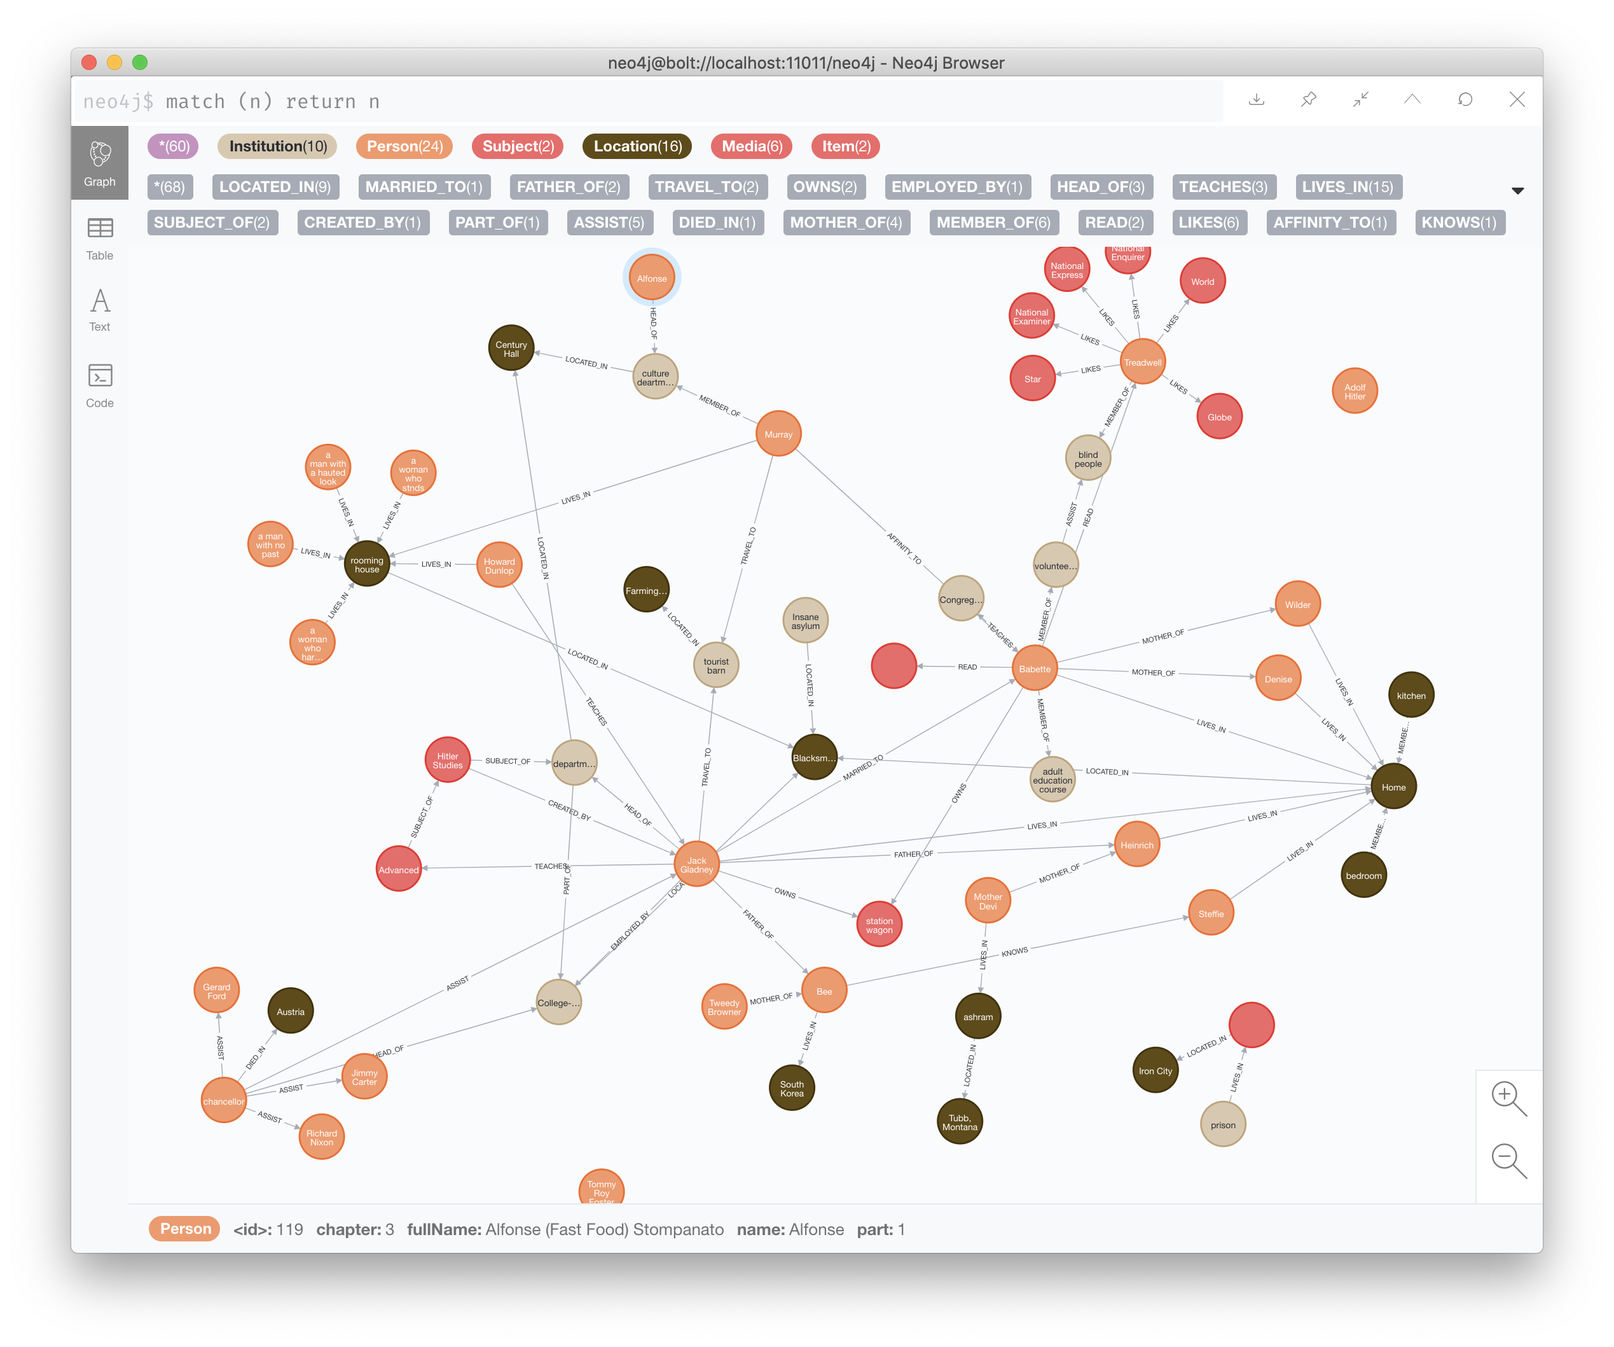
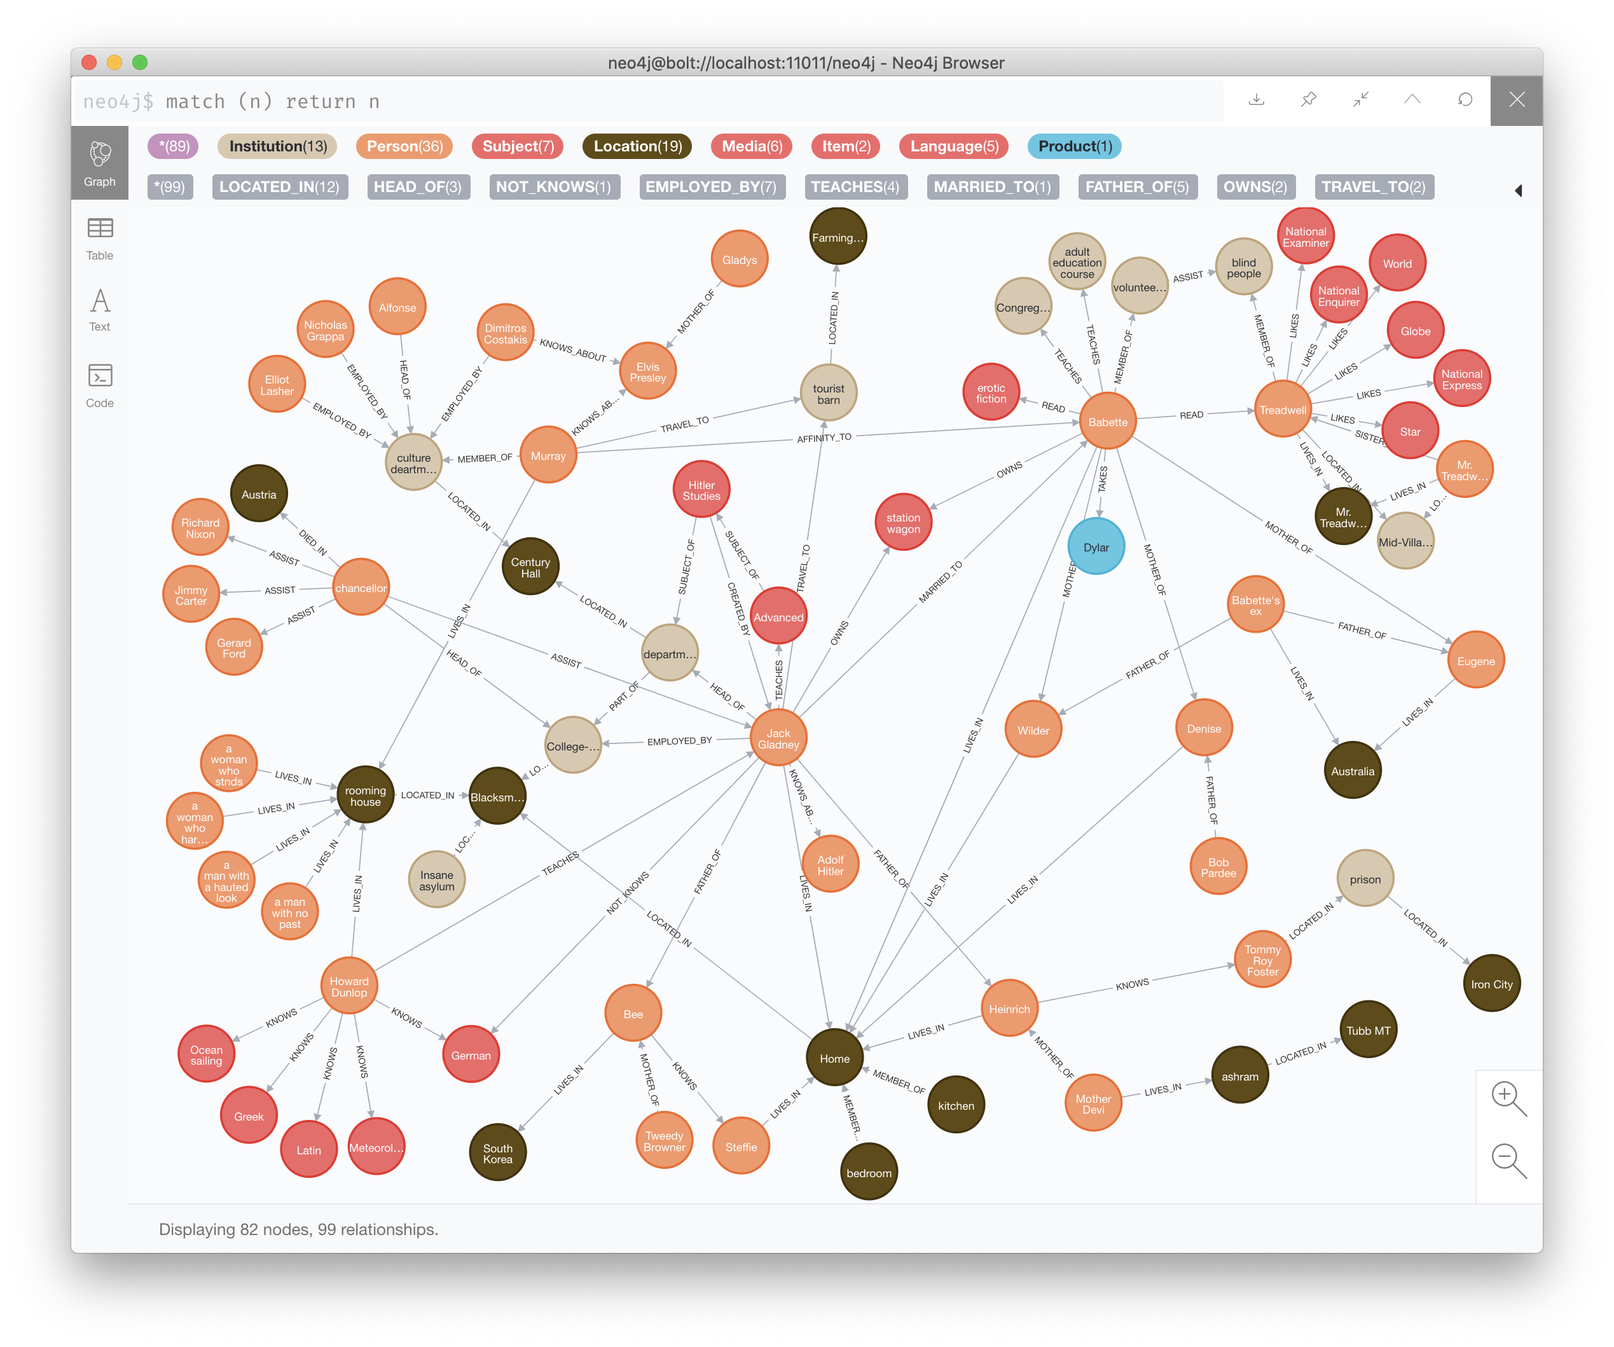
pyvi done. badly. needs proper review

diff --git a/utils/pv.html b/utils/pv.html
@@ -1,0 +1,216 @@
+<html>
+<head>
+<link rel="stylesheet" href="https://cdnjs.cloudflare.com/ajax/libs/vis/4.16.1/vis.css" type="text/css" />
+<script type="text/javascript" src="https://cdnjs.cloudflare.com/ajax/libs/vis/4.16.1/vis-network.min.js"> </script>
+<center>
+<h1>None</h1>
+</center>
+
+<!-- <link rel="stylesheet" href="../node_modules/vis/dist/vis.min.css" type="text/css" />
+<script type="text/javascript" src="../node_modules/vis/dist/vis.js"> </script>-->
+
+<style type="text/css">
+
+        #mynetwork {
+            width: 100%;
+            height: 95%;
+            background-color: #ffffff;
+            border: 1px solid lightgray;
+            position: relative;
+            float: left;
+        }
+
+        
+        #loadingBar {
+            position:absolute;
+            top:0px;
+            left:0px;
+            width: 100%;
+            height: 95%;
+            background-color:rgba(200,200,200,0.8);
+            -webkit-transition: all 0.5s ease;
+            -moz-transition: all 0.5s ease;
+            -ms-transition: all 0.5s ease;
+            -o-transition: all 0.5s ease;
+            transition: all 0.5s ease;
+            opacity:1;
+        }
+
+        #bar {
+            position:absolute;
+            top:0px;
+            left:0px;
+            width:20px;
+            height:20px;
+            margin:auto auto auto auto;
+            border-radius:11px;
+            border:2px solid rgba(30,30,30,0.05);
+            background: rgb(0, 173, 246); /* Old browsers */
+            box-shadow: 2px 0px 4px rgba(0,0,0,0.4);
+        }
+
+        #border {
+            position:absolute;
+            top:10px;
+            left:10px;
+            width:500px;
+            height:23px;
+            margin:auto auto auto auto;
+            box-shadow: 0px 0px 4px rgba(0,0,0,0.2);
+            border-radius:10px;
+        }
+
+        #text {
+            position:absolute;
+            top:8px;
+            left:530px;
+            width:30px;
+            height:50px;
+            margin:auto auto auto auto;
+            font-size:22px;
+            color: #000000;
+        }
+
+        div.outerBorder {
+            position:relative;
+            top:400px;
+            width:600px;
+            height:44px;
+            margin:auto auto auto auto;
+            border:8px solid rgba(0,0,0,0.1);
+            background: rgb(252,252,252); /* Old browsers */
+            background: -moz-linear-gradient(top,  rgba(252,252,252,1) 0%, rgba(237,237,237,1) 100%); /* FF3.6+ */
+            background: -webkit-gradient(linear, left top, left bottom, color-stop(0%,rgba(252,252,252,1)), color-stop(100%,rgba(237,237,237,1))); /* Chrome,Safari4+ */
+            background: -webkit-linear-gradient(top,  rgba(252,252,252,1) 0%,rgba(237,237,237,1) 100%); /* Chrome10+,Safari5.1+ */
+            background: -o-linear-gradient(top,  rgba(252,252,252,1) 0%,rgba(237,237,237,1) 100%); /* Opera 11.10+ */
+            background: -ms-linear-gradient(top,  rgba(252,252,252,1) 0%,rgba(237,237,237,1) 100%); /* IE10+ */
+            background: linear-gradient(to bottom,  rgba(252,252,252,1) 0%,rgba(237,237,237,1) 100%); /* W3C */
+            filter: progid:DXImageTransform.Microsoft.gradient( startColorstr='#fcfcfc', endColorstr='#ededed',GradientType=0 ); /* IE6-9 */
+            border-radius:72px;
+            box-shadow: 0px 0px 10px rgba(0,0,0,0.2);
+        }
+        
+
+        
+        #config {
+            float: left;
+            width: 400px;
+            height: 600px;
+        }
+        
+
+        
+</style>
+
+</head>
+
+<body>
+<div id = "mynetwork"></div>
+
+<div id="loadingBar">
+    <div class="outerBorder">
+        <div id="text">0%</div>
+        <div id="border">
+            <div id="bar"></div>
+        </div>
+    </div>
+</div>
+
+
+<div id = "config"></div>
+
+<script type="text/javascript">
+
+    // initialize global variables.
+    var edges;
+    var nodes;
+    var network; 
+    var container;
+    var options, data;
+
+    
+    // This method is responsible for drawing the graph, returns the drawn network
+    function drawGraph() {
+        var container = document.getElementById('mynetwork');
+        
+        
+
+        // parsing and collecting nodes and edges from the python
+        nodes = new vis.DataSet([{"id": "hill", "label": "College-on-the-Hill", "shape": "dot"}, {"id": "protagonist,", "label": "protagonist,", "shape": "dot"}, {"id": "hitlerDept,", "label": "hitlerDept,", "shape": "dot"}, {"id": "hitlerStudies", "label": "Hitler Studies", "shape": "dot"}, {"id": "protagonist", "label": "Jack Gladney", "shape": "dot"}, {"id": "hitler,", "label": "hitler,", "shape": "dot"}, {"id": "chancellor,", "label": "chancellor,", "shape": "dot"}, {"id": "chancellor", "label": "chancellor of College-on-Hill", "shape": "dot"}, {"id": "nixon,", "label": "nixon,", "shape": "dot"}, {"id": "ford,", "label": "ford,", "shape": "dot"}, {"id": "carter,", "label": "carter,", "shape": "dot"}, {"id": "austria,", "label": "austria,", "shape": "dot"}, {"id": "babette,", "label": "babette,", "shape": "dot"}, {"id": "volunteers", "label": "volunteering group", "shape": "dot"}, {"id": "blind,", "label": "blind,", "shape": "dot"}, {"id": "babette", "label": "Babette", "shape": "dot"}, {"id": "volunteers,", "label": "volunteers,", "shape": "dot"}, {"id": "adEd,", "label": "adEd,", "shape": "dot"}, {"id": "treadwell,", "label": "treadwell,", "shape": "dot"}, {"id": "treadwell", "label": "Treadwell", "shape": "dot"}, {"id": "natEnquirer,", "label": "natEnquirer,", "shape": "dot"}, {"id": "natExaminer,", "label": "natExaminer,", "shape": "dot"}, {"id": "natExpress,", "label": "natExpress,", "shape": "dot"}, {"id": "globe,", "label": "globe,", "shape": "dot"}, {"id": "world,", "label": "world,", "shape": "dot"}, {"id": "star,", "label": "star,", "shape": "dot"}, {"id": "stationwagon,", "label": "stationwagon,", "shape": "dot"}, {"id": "wilder,", "label": "wilder,", "shape": "dot"}, {"id": "wilder", "label": "Wilder", "shape": "dot"}, {"id": "home,", "label": "home,", "shape": "dot"}, {"id": "home", "label": "Home", "shape": "dot"}, {"id": "bedroom,", "label": "bedroom,", "shape": "dot"}, {"id": "kitchen,", "label": "kitchen,", "shape": "dot"}, {"id": "denise", "label": "Denise", "shape": "dot"}, {"id": "steffie", "label": "Steffie", "shape": "dot"}, {"id": "heinrich", "label": "Heinrich", "shape": "dot"}, {"id": "cultDept", "label": "culture deartment", "shape": "dot"}, {"id": "centuryHall,", "label": "centuryHall,", "shape": "dot"}, {"id": "hitlerDept", "label": "department of Hitler Studies", "shape": "dot"}, {"id": "alfonse", "label": "Alfonse", "shape": "dot"}, {"id": "cultDept,", "label": "cultDept,", "shape": "dot"}, {"id": "murray", "label": "Murray", "shape": "dot"}, {"id": "roomingHouse,", "label": "roomingHouse,", "shape": "dot"}, {"id": "womanWithSecret", "label": "a woman who harbors a terrible secret", "shape": "dot"}, {"id": "hautedMan", "label": "a man with a hauted look", "shape": "dot"}, {"id": "dunlop", "label": "Howard Dunlop", "shape": "dot"}, {"id": "letterboxWoman", "label": "a woman who stnds by the letterbox for hours", "shape": "dot"}, {"id": "noPastMan", "label": "a man with no past", "shape": "dot"}, {"id": "blacksmith,", "label": "blacksmith,", "shape": "dot"}, {"id": "roomingHouse", "label": "rooming house", "shape": "dot"}, {"id": "asylum", "label": "Insane asylum", "shape": "dot"}, {"id": "barn", "label": "tourist barn", "shape": "dot"}, {"id": "farmington,", "label": "farmington,", "shape": "dot"}, {"id": "barn,", "label": "barn,", "shape": "dot"}, {"id": "bee", "label": "Bee", "shape": "dot"}, {"id": "tweedy,", "label": "tweedy,", "shape": "dot"}, {"id": "steffie,", "label": "steffie,", "shape": "dot"}, {"id": "korea,", "label": "korea,", "shape": "dot"}, {"id": "eroticFic,", "label": "eroticFic,", "shape": "dot"}, {"id": "devi,", "label": "devi,", "shape": "dot"}, {"id": "devi", "label": "Mother Devi", "shape": "dot"}, {"id": "ashram,", "label": "ashram,", "shape": "dot"}, {"id": "ashram", "label": "ashram", "shape": "dot"}, {"id": "tubb,", "label": "tubb,", "shape": "dot"}, {"id": "advNazism", "label": "Advanced Nazism", "shape": "dot"}, {"id": "hitlerStudies,", "label": "hitlerStudies,", "shape": "dot"}, {"id": "advNazism,", "label": "advNazism,", "shape": "dot"}, {"id": "church,", "label": "church,", "shape": "dot"}, {"id": "german,", "label": "german,", "shape": "dot"}, {"id": "tommyRoy", "label": "Tommy Roy Foster", "shape": "dot"}, {"id": "prison,", "label": "prison,", "shape": "dot"}, {"id": "prison", "label": "prison", "shape": "dot"}, {"id": "ironCity,", "label": "ironCity,", "shape": "dot"}, {"id": "tommyRoy,", "label": "tommyRoy,", "shape": "dot"}, {"id": "dana", "label": "Dana Breedlove", "shape": "dot"}, {"id": "cia,", "label": "cia,", "shape": "dot"}, {"id": "spanish,", "label": "spanish,", "shape": "dot"}, {"id": "portugese,", "label": "portugese,", "shape": "dot"}, {"id": "eugene", "label": "Eugene", "shape": "dot"}, {"id": "babetteEx,", "label": "babetteEx,", "shape": "dot"}, {"id": "babetteEx", "label": "Babettes ex", "shape": "dot"}, {"id": "australia,", "label": "australia,", "shape": "dot"}, {"id": "greek,", "label": "greek,", "shape": "dot"}, {"id": "latin,", "label": "latin,", "shape": "dot"}, {"id": "sailing,", "label": "sailing,", "shape": "dot"}, {"id": "meteorology,", "label": "meteorology,", "shape": "dot"}, {"id": "bob", "label": "Bob Pardee", "shape": "dot"}, {"id": "denise,", "label": "denise,", "shape": "dot"}, {"id": "treadwellSister", "label": "Mr. Treadwells sister", "shape": "dot"}, {"id": "treadwellHouse,", "label": "treadwellHouse,", "shape": "dot"}, {"id": "mall,", "label": "mall,", "shape": "dot"}, {"id": "hollis", "label": "Hollis Write", "shape": "dot"}, {"id": "police,", "label": "police,", "shape": "dot"}, {"id": "adele", "label": "Adele T", "shape": "dot"}, {"id": "dylar,", "label": "dylar,", "shape": "dot"}, {"id": "dimitros", "label": "Dimitros Costakis", "shape": "dot"}, {"id": "elvis,", "label": "elvis,", "shape": "dot"}, {"id": "grappa", "label": "Nicholas Grappa", "shape": "dot"}, {"id": "lasher", "label": "Elliot Lasher", "shape": "dot"}, {"id": "gladys", "label": "Gladys", "shape": "dot"}, {"id": "elvis", "label": "elvis", "shape": "dot"}, {"id": "compCenter", "label": "computer center", "shape": "dot"}, {"id": "hill,", "label": "hill,", "shape": "dot"}, {"id": "eric", "label": "Eric Massingale", "shape": "dot"}, {"id": "malcom", "label": "Malcom Hunt", "shape": "dot"}, {"id": "indonesia,", "label": "indonesia,", "shape": "dot"}, {"id": "tweedy", "label": "Tweedy Browner", "shape": "dot"}, {"id": "quadaffi,", "label": "quadaffi,", "shape": "dot"}]);
+        edges = new vis.DataSet([{"from": "hill", "to": "protagonist,"}, {"from": "hill", "to": "hitlerDept,"}, {"from": "hitlerStudies", "to": "hitlerDept,"}, {"from": "protagonist", "to": "hitler,"}, {"from": "hitlerStudies", "to": "protagonist,"}, {"from": "protagonist", "to": "hitlerDept,"}, {"from": "hill", "to": "chancellor,"}, {"from": "chancellor", "to": "nixon,"}, {"from": "chancellor", "to": "ford,"}, {"from": "chancellor", "to": "carter,"}, {"from": "chancellor", "to": "austria,"}, {"from": "protagonist", "to": "babette,"}, {"from": "volunteers", "to": "blind,"}, {"from": "babette", "to": "volunteers,"}, {"from": "babette", "to": "adEd,"}, {"from": "babette", "to": "treadwell,"}, {"from": "treadwell", "to": "blind,"}, {"from": "treadwell", "to": "natEnquirer,"}, {"from": "treadwell", "to": "natExaminer,"}, {"from": "treadwell", "to": "natExpress,"}, {"from": "treadwell", "to": "globe,"}, {"from": "treadwell", "to": "world,"}, {"from": "treadwell", "to": "star,"}, {"from": "protagonist", "to": "stationwagon,"}, {"from": "babette", "to": "stationwagon,"}, {"from": "babette", "to": "wilder,"}, {"from": "wilder", "to": "home,"}, {"from": "babette", "to": "home,"}, {"from": "protagonist", "to": "home,"}, {"from": "home", "to": "bedroom,"}, {"from": "home", "to": "kitchen,"}, {"from": "denise", "to": "babette,"}, {"from": "denise", "to": "home,"}, {"from": "steffie", "to": "home,"}, {"from": "heinrich", "to": "protagonist,"}, {"from": "heinrich", "to": "home,"}, {"from": "cultDept", "to": "centuryHall,"}, {"from": "hitlerDept", "to": "centuryHall,"}, {"from": "alfonse", "to": "cultDept,"}, {"from": "murray", "to": "cultDept,"}, {"from": "murray", "to": "roomingHouse,"}, {"from": "womanWithSecret", "to": "roomingHouse,"}, {"from": "hautedMan", "to": "roomingHouse,"}, {"from": "dunlop", "to": "roomingHouse,"}, {"from": "letterboxWoman", "to": "roomingHouse,"}, {"from": "noPastMan", "to": "roomingHouse,"}, {"from": "home", "to": "blacksmith,"}, {"from": "hill", "to": "blacksmith,"}, {"from": "roomingHouse", "to": "blacksmith,"}, {"from": "asylum", "to": "blacksmith,"}, {"from": "barn", "to": "farmington,"}, {"from": "protagonist", "to": "barn,"}, {"from": "murray", "to": "barn,"}, {"from": "bee", "to": "protagonist,"}, {"from": "bee", "to": "tweedy,"}, {"from": "bee", "to": "steffie,"}, {"from": "bee", "to": "korea,"}, {"from": "babette", "to": "eroticFic,"}, {"from": "chancellor", "to": "protagonist,"}, {"from": "heinrich", "to": "devi,"}, {"from": "devi", "to": "ashram,"}, {"from": "ashram", "to": "tubb,"}, {"from": "advNazism", "to": "hitlerStudies,"}, {"from": "protagonist", "to": "advNazism,"}, {"from": "babette", "to": "church,"}, {"from": "protagonist", "to": "german,"}, {"from": "dunlop", "to": "german,"}, {"from": "dunlop", "to": "protagonist,"}, {"from": "murray", "to": "babette,"}, {"from": "tommyRoy", "to": "prison,"}, {"from": "prison", "to": "ironCity,"}, {"from": "heinrich", "to": "tommyRoy,"}, {"from": "dana", "to": "cia,"}, {"from": "dana", "to": "spanish,"}, {"from": "dana", "to": "portugese,"}, {"from": "eugene", "to": "babetteEx,"}, {"from": "eugene", "to": "babette,"}, {"from": "babetteEx", "to": "wilder,"}, {"from": "babetteEx", "to": "australia,"}, {"from": "eugene", "to": "australia,"}, {"from": "dunlop", "to": "greek,"}, {"from": "dunlop", "to": "latin,"}, {"from": "dunlop", "to": "sailing,"}, {"from": "dunlop", "to": "meteorology,"}, {"from": "bob", "to": "denise,"}, {"from": "treadwellSister", "to": "treadwell,"}, {"from": "treadwell", "to": "treadwellHouse,"}, {"from": "treadwellSister", "to": "treadwellHouse,"}, {"from": "treadwell", "to": "mall,"}, {"from": "treadwellSister", "to": "mall,"}, {"from": "hollis", "to": "police,"}, {"from": "adele", "to": "police,"}, {"from": "babette", "to": "dylar,"}, {"from": "dimitros", "to": "cultDept,"}, {"from": "dimitros", "to": "elvis,"}, {"from": "murray", "to": "elvis,"}, {"from": "grappa", "to": "cultDept,"}, {"from": "lasher", "to": "cultDept,"}, {"from": "gladys", "to": "elvis"}, {"from": "compCenter", "to": "hill,"}, {"from": "eric", "to": "compCenter"}, {"from": "malcom", "to": "tweedy,"}, {"from": "bee", "to": "indonesia,"}, {"from": "malcom", "to": "indonesia,"}, {"from": "malcom", "to": "cia,"}, {"from": "tweedy", "to": "quadaffi,"}, {"from": "malcom", "to": "quadaffi,"}]);
+
+        // adding nodes and edges to the graph
+        data = {nodes: nodes, edges: edges};
+
+        var options = {
+    "configure": {
+        "enabled": true
+    },
+    "edges": {
+        "color": {
+            "inherit": true
+        },
+        "smooth": {
+            "enabled": false,
+            "type": "continuous"
+        }
+    },
+    "interaction": {
+        "dragNodes": true,
+        "hideEdgesOnDrag": false,
+        "hideNodesOnDrag": false
+    },
+    "physics": {
+        "enabled": true,
+        "stabilization": {
+            "enabled": true,
+            "fit": true,
+            "iterations": 1000,
+            "onlyDynamicEdges": false,
+            "updateInterval": 50
+        }
+    }
+};
+        
+        
+
+        
+        // if this network requires displaying the configure window,
+        // put it in its div
+        options.configure["container"] = document.getElementById("config");
+        
+
+        network = new vis.Network(container, data, options);
+
+        
+
+
+        
+        network.on("stabilizationProgress", function(params) {
+      		document.getElementById('loadingBar').removeAttribute("style");
+	        var maxWidth = 496;
+	        var minWidth = 20;
+	        var widthFactor = params.iterations/params.total;
+	        var width = Math.max(minWidth,maxWidth * widthFactor);
+
+	        document.getElementById('bar').style.width = width + 'px';
+	        document.getElementById('text').innerHTML = Math.round(widthFactor*100) + '%';
+	    });
+	    network.once("stabilizationIterationsDone", function() {
+	        document.getElementById('text').innerHTML = '100%';
+	        document.getElementById('bar').style.width = '496px';
+	        document.getElementById('loadingBar').style.opacity = 0;
+	        // really clean the dom element
+	        setTimeout(function () {document.getElementById('loadingBar').style.display = 'none';}, 500);
+	    });
+        
+
+        return network;
+
+    }
+
+    drawGraph();
+
+</script>
+</body>
+</html>

diff --git a/utils/draw_pyvis.py b/utils/draw_pyvis.py
@@ -1,0 +1,83 @@
+import sys
+import os
+import logging
+import re
+from pyvis.network import Network
+
+net = Network("95%", "100%")
+net.show_buttons()
+
+
+def get_lines(filename: str) -> list:
+    """ returns the content of the file as per provided filename line by line """
+    lines = []
+    if not os.path.splitext(filename)[1] in (".cypher", ".cyp"):
+        print("Please provide a valid cypher file")
+        sys.exit()
+    try:
+        with open(filename, "r") as f:
+            lines = f.readlines()
+    except Exception as ex:
+        logging.error(ex)
+    return lines
+
+
+def is_node(line: str) -> bool:
+    node = re.compile(r"\s?\w*?\s?\(\w*?:\w*\s?\{?.*")
+    return True if re.search(node, line) else False
+
+
+def is_edge(line: str) -> bool:
+    return "[" in line
+
+
+def get_variable(line: str) -> str:
+    body = line.split("(")[1]
+    return body.split(":")[0]
+
+
+def get_var_from_edge(line: str):
+    line = line.replace("<", "").replace(">", "").replace("(", "").replace(")", "")
+    parts = line.split("-")
+    return clean_str(parts[0]), clean_str(parts[2])
+
+
+def get_first_prop(line: str) -> str:
+    _, body = line.split("{")
+    props, _ = body.split("}")
+    p = props.split(",")[0]
+    return clean_str(p.split(":")[1])
+
+
+def get_edge(line: str) -> str:
+    _, body = line.split("[:")
+    relation, _ = body.split("]")
+    if " " in relation:
+        relation = relation.split(" ")[0]
+    return relation.lower().replace("_", " ")
+
+
+def clean_str(string: str):
+    return string.strip().replace("'", "").replace('"', "")
+
+
+lines = get_lines("../cypher/delillo_white_noise.cypher")
+print(f"loaded {len(lines)} lines")
+nodes = {}
+edges = {}
+rel = []
+i = 0
+for line in lines:
+    if is_node(line):
+        nodes[get_variable(line)] = get_first_prop(line)
+        # net.add_node(get_variable(line))
+
+for line in lines:
+    if is_edge(line):
+        # relationship = get_edge(line)
+        first_node, second_node = get_var_from_edge(line)
+        net.add_node(first_node, label=nodes[first_node])
+        net.add_node(second_node)
+        net.add_edge(first_node, second_node)
+
+net.show("pv.html")

diff --git a/utils/chapters.go b/utils/chapters.go
@@ -1,0 +1,9 @@
+package main
+
+import (
+	"fmt"
+)
+
+func main() {
+	
+}

diff --git a/utils/README.md b/utils/README.md
@@ -47,3 +47,11 @@ The chapter values are compoundable (any number of divisions possible to be mark
 Currently only simple patterns are supported, that is `(node {full_syntaxis_possible: true})-[:RELATIONSHIP {bi_directional: true}]->(node)`. In the relationship command only the edge part will be evaluated, and nodes ignored. To work with nodes, individual node statements are necessary.
 
 The "ongoing development" stage is definitely on, as I am trying to rewrite the whole thing is some niche language like [Nim](https://nim-lang.org/) or [V](https://vlang.io/)
+
+## DRAW_PYVI
+
+for those, who don't want to fire up Neo4j every time they want to see the general outline of relationships between elements -- parses cypher straight into html (pyvi with JS, I assume).
+
+Currently terrible code -- real kludge, because, I don't know, I was tired or something.
+
+![](../media/pyvi_white_noise.png)

diff --git a/README.md b/README.md
@@ -18,6 +18,10 @@ The book is broken down into Parts and Chapters.
 Current state of progress (as of the time of this document -- chapter 10)
 ![](media/white_noise_graph.png)
 
+there is also the HTML version of the same database (incomplete) generated with pyvi framework
+
+![](media/pyvi_white_noise.png)
+
 ## रामायणम्
 
 ![](media/ramayana.jpg)
@@ -31,4 +35,4 @@ Currently the development has paused, as I am reviewing the entry criteria
 ![](media/made_in_japan.jpg)
 an academic study of the genealogy of Japanese popular music from Takarazuka Revue to Enka. J-pop and EDM are not addressed in the book.
 
-This book is the first attempt at non-fiction format. 
+This book is the first attempt at non-fiction format.
